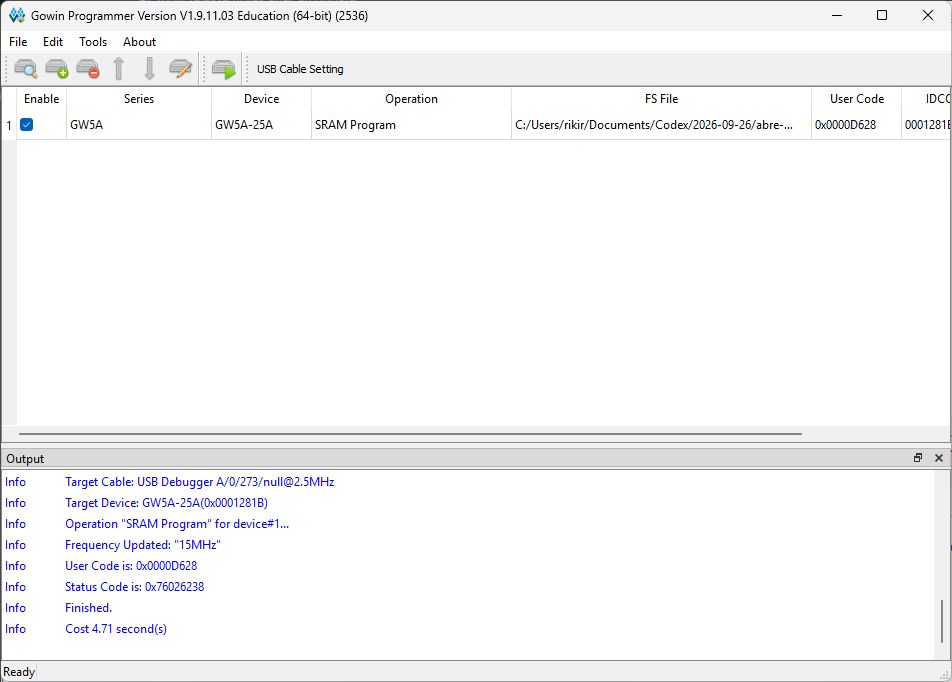
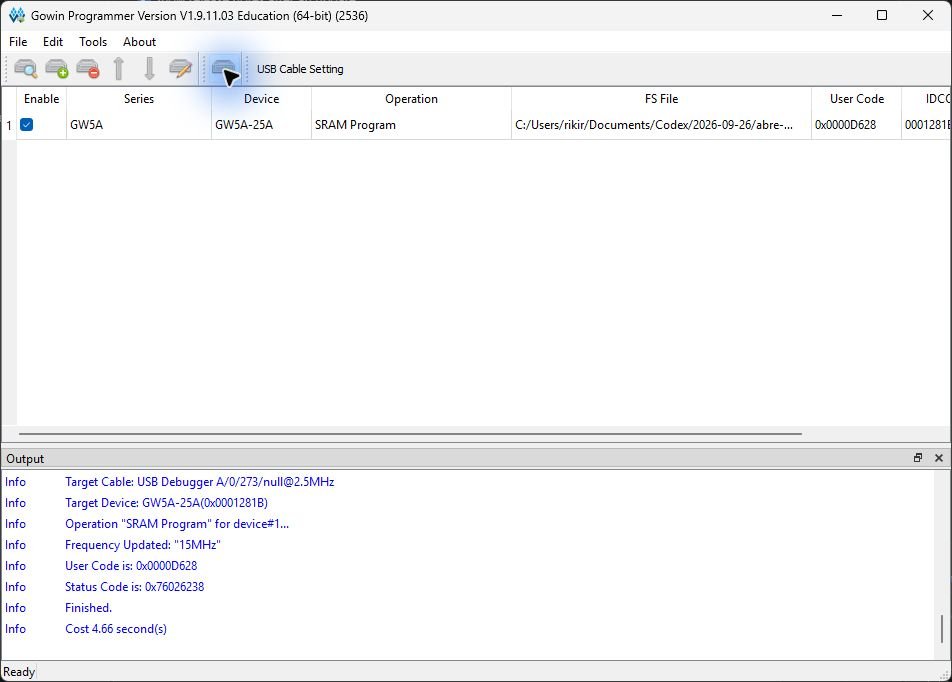
Comprueba cero y uno con G10 y E11 y restaura el proyecto para probar en placa

Changed region(s): [[0.1828, 0.0616, 0.3046, 0.1848], [0.9748, 0.9853, 1.0, 1.0], [0.0, 0.9853, 0.0305, 1.0]]

diff --git a/docs/prueba_placa_inicial.md b/docs/prueba_placa_inicial.md
@@ -1,0 +1,17 @@
+# Prueba inicial en placa
+
+Usar el bitstream `fpga/bitstream/reto07_20230113.fs`, no el diagnóstico temporal. Las entradas tienen pull-up e inversión: abierto = 0 lógico, conectado a GND = 1 lógico. Mantener E10 abierto salvo al presionar reset.
+
+Conectar GND de la FPGA al riel negativo de la protoboard. Abrir los trece interruptores. Presionar y soltar reset; Q y flag quedan en cero.
+
+| Paso | Entradas conectadas a GND | abcd | A | B | en | Q | flag | u | v | Salidas encendidas esperadas |
+|---|---|---|---|---|---|---|---|---|---|---|
+| Cero | E11 | 0000 | 0000 | 0000 | 1 | 0000 | 0 | 0 | 0 | G5, enable |
+| Uno | E11 y G10 | 0000 | 0001 | 0000 | 1 | 0001 | 0 | 0 | 0 | G5, enable; H7, Q0 |
+| Retención | Solo G10, después del paso Uno | 0000 | 0001 | 0000 | 0 | 0001 | 0 | 0 | 0 | H7, Q0 |
+
+En el paso Uno, las otras entradas C11, C10, B11, B10, D11, D10, G11, L5, K5, K11 y L11 permanecen abiertas. E10 también permanece abierto.
+
+El paso Uno hace RESTA, 1 − 0 = 1. En el orden lógico Q3 Q2 Q1 Q0 flag u v en, la lectura es 00010001. El orden visual de los LED debe identificarse en el módulo físico: el LED enable es el que quedaba fijo en el diagnóstico cuando E11 estaba unido a GND. Al agregar G10 debe encenderse un segundo LED. Esta comprobación no depende de contar los LED desde un extremo concreto.
+
+El testbench del adaptador comprueba estos pasos y el borrado por reset con enable desactivado. Los resultados físicos están pendientes de registrar; no deben sustituirse por las expectativas de la tabla.

diff --git a/docs/validacion_fpga.md b/docs/validacion_fpga.md
@@ -8,4 +8,6 @@ Gowin completó síntesis, Place & Route, análisis temporal y generación del b
 
 La síntesis informa NL0002 al integrar la instancia control_logic en la lógica optimizada. Es un aviso de optimización de jerarquía: las funciones u/v siguen verificadas por simulación. No se encontraron otros avisos ni errores en la implementación.
 
+El testbench del adaptador también comprueba 0 − 0, 1 − 0 activando G10/E11, la retención de 1 al abrir enable y el borrado con reset. La guía `prueba_placa_inicial.md` permite comparar estos casos con el módulo físico por función y pin, sin asumir su orden visual.
+
 Los resultados están en `sim/`, los informes y el resumen con SHA-256 del bitstream en `fpga/reports/`, y la captura de Ubuntu en `evidencias/simulacion_ubuntu_vscode.jpg`. La programación SRAM de esta versión terminó correctamente; su registro y captura están en `evidencias/programacion_sram.md` y `evidencias/programacion_sram.jpg`. La comprobación física del montaje se registra por separado.

diff --git a/evidencias/programacion_sram.md b/evidencias/programacion_sram.md
@@ -1,10 +1,10 @@
 # Programación en SRAM
 
-Fecha: 9 de octubre de 2026, 18:09 (UTC−4).
+Fecha: 9 de octubre de 2026, 18:37 (UTC−4).
 
 Gowin Programmer V1.9.11.03 Education detectó GW5A-25A, IDCODE 0x0001281B. Se seleccionó SRAM Mode / SRAM Program y el archivo `fpga/bitstream/reto07_20230113.fs`.
 
-La operación mostró User Code 0x0000D628, Status Code 0x76026238 y Finished. Duración indicada: 4,71 segundos. No aparecieron mensajes de error durante esta carga. El aviso anterior de archivo actualizado indicó que Programmer detectó el nuevo bitstream antes de iniciar la programación.
+La operación mostró User Code 0x0000D628, Status Code 0x76026238 y Finished. Duración indicada: 4,66 segundos. No aparecieron mensajes de error durante esta carga. Se restauró el bitstream del reto después del diagnóstico temporal.
 
[1 lines of base64/hex data omitted]
 

diff --git a/docs/montaje_protoboard.md b/docs/montaje_protoboard.md
@@ -48,7 +48,7 @@ Al presionar se borran Q y flag_q. Los indicadores u/v y en siguen mostrando sus
 
 El LED×8 es activo en bajo. El adaptador invierte sus salidas para que **LED encendido = 1 lógico**.
 
-L1–L8 indican el orden de lectura usado en el montaje. La columna D identifica el componente en el esquema oficial del módulo; las dos numeraciones son distintas.
+L1–L8 indican el orden previsto según la relación de pines proporcionada para el montaje. La posición visual debe contrastarse en la placa siguiendo `prueba_placa_inicial.md`. La columna D identifica el componente en el esquema oficial del módulo; las dos numeraciones son distintas.
 
 | Orden de lectura | LED del esquema | Señal | Pin de J6 | Bola FPGA |
 |---|---|---|---|---|
